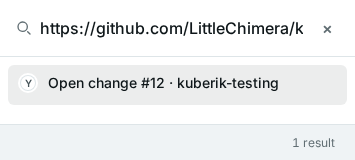
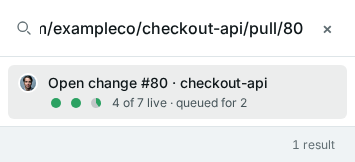
docs: command palette PR paste from mock mode

diff --git a/content/docs/operate/dashboard.md b/content/docs/operate/dashboard.md
@@ -20,7 +20,7 @@ The sidebar pages list what needs you across every cluster; the command palette 
 3. Type part of a name. Results are grouped as **Rollouts**, **Builds**, **Apps**, **Environments**, **Changes**, **Namespaces** and **Commands**.
 4. To find a pull request, paste its GitHub URL, `owner/repo#123` or a commit sha into the box, then select **Open change #123 · repo**.
 
-![The command palette with a GitHub pull request URL pasted in and a single result, Open change #12 · kuberik-testing](/images/docs/dashboard/command-palette-pr.png)
+![The command palette with the URL of pull request 80 in exampleco/checkout-api pasted in and a single result, Open change #80 · checkout-api, 4 of 7 live, queued for 2](/images/docs/dashboard/command-palette-pr.png)
 
 ## Read a rollout
 
